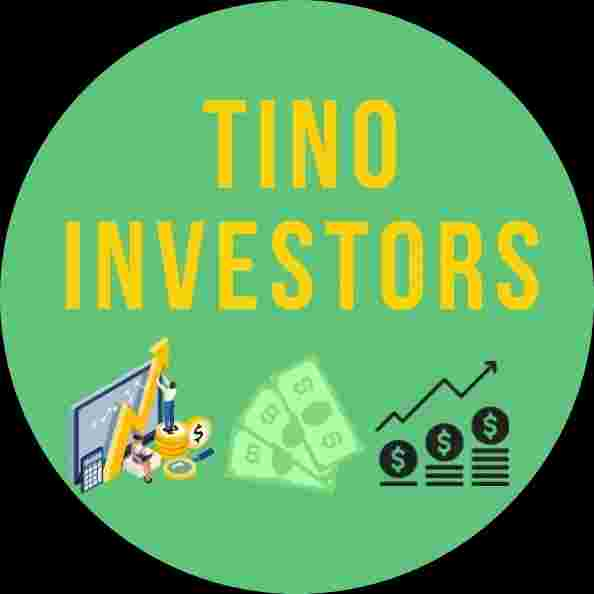
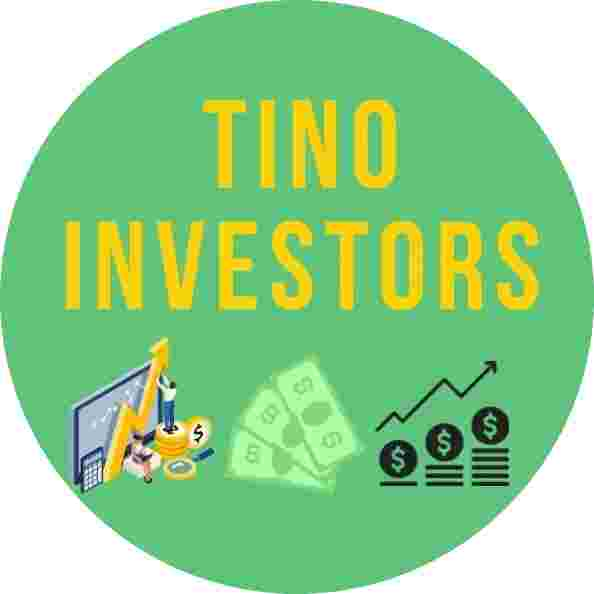
improved thumb images

diff --git a/templates/macros.html b/templates/macros.html
@@ -17,8 +17,8 @@
 {% macro club_card(overview, btn_class="text-decoration-none", display_category=False) %}
 <div class="card shadow-sm rounded-3 h-100" style="border:0px">
     <div class="card-body p-0 alignment-placeholder"></div>
-    <div class="position-relative">
-        <img data-src="{{overview.img_url}}" class="card-img-top lazyload" style="max-width:280px;max-height:280px">
+    <div class="position-relative bg-white rounded-3">
+        <img src="{{overview.thumb_url}}" data-src="{{overview.img_url}}" class="card-img-top lazyload" style="max-width:280px;max-height:280px">
         <div class="position-absolute bottom-0 end-0">
             {% if overview.is_new %} {{ tag("NEW", color="warning", margin="m-1") }} {% endif %}
             {% if display_category %} {{ tag(overview.category.display_name, margin="m-1") }} {% endif %}

diff --git a/db.py b/db.py
@@ -87,6 +87,10 @@ class ClubOverview:
         return self.name.replace(' ', '-')
 
     @property
+    def thumb_url(self):
+        return '/static/thumb/' + self.hyphened_name + '.jpg'
+
+    @property
     def img_url(self):
         return '/static/club/' + self.hyphened_name + '.jpg'
 
